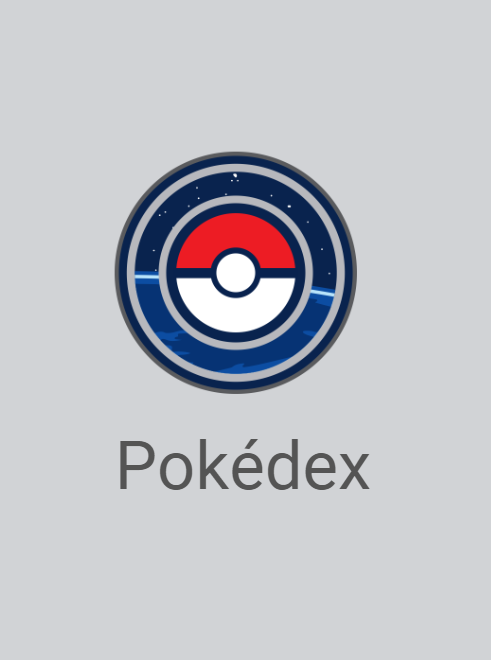
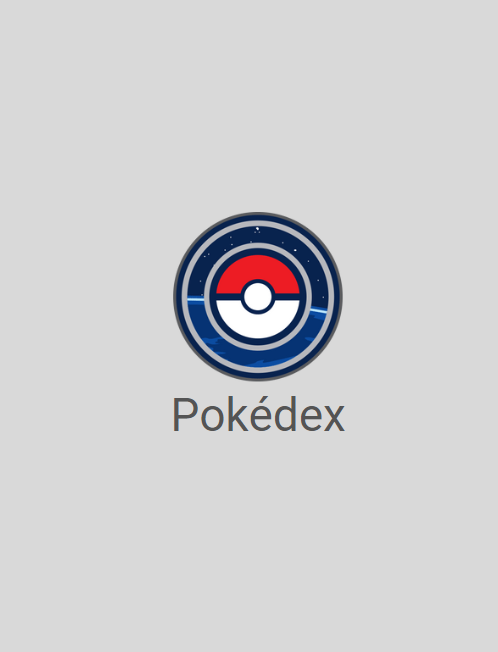
content hover adicionado

Changed region(s): [[0.2138, 0.2147, 0.7637, 0.7669]]

diff --git a/portfolio/src/Sections/Projects/Projects.js b/portfolio/src/Sections/Projects/Projects.js
@@ -4,16 +4,19 @@ import projectThree from "../../Assets/projectPokedex.png"
 import projectTwo from "../../Assets/projectFoodJP.png"
 import github from "../../Assets/github.png"
 import deploy from "../../Assets/deploy.png"
+import { useState } from "react"
 // Import Swiper 
 import { Swiper, SwiperSlide } from "swiper/react";
-
-// Import Swiper styles
 import "swiper/css";
 import "swiper/css/free-mode";
-import "swiper/css/pagination";
 import { FreeMode} from "swiper";
 
+
 const Projects = () => {
+    const [descriptionP1, setDescriptionP1] = useState("")
+    const [descriptionP2, setDescriptionP2] = useState("")
+    const [descriptionP3, setDescriptionP3] = useState("")
+    
     return (
         <div className="div-projects-section">
             <div className="title">
@@ -42,9 +45,16 @@ const Projects = () => {
                     pagination={{clickable: true,}}
                     modules={[FreeMode]}
                     className="mySwiper">
+                        
                     <SwiperSlide>
                         <div className="project">
-                            <img src={projectOne}/>
+                            <img 
+                                src={projectOne}
+                                onMouseOver={() => 
+                                    setDescriptionP1("O Rappi4, foi proposto pela Labenu com intenção de colocar em prática o conhecimento do módulo front-end. Tem o intuito de simular uma aplicação web para pedidos.")}
+                                onMouseOut={() => setDescriptionP1("")}
+                                />
+                            <p>{descriptionP1}</p>
                             <div className="container-btn">
                                 <button className="btn-git"><img src={github}/>GitHub</button>
                                 <button className="btn-deploy"><img src={deploy}/>Visualizar</button>
@@ -53,7 +63,12 @@ const Projects = () => {
                     </SwiperSlide>
                     <SwiperSlide>
                         <div className="project">
-                            <img src={projectTwo}/>
+                            <img src={projectTwo}
+                            onMouseOver={() => 
+                                setDescriptionP2("O FoodJP é um projeto do desafio nº27 da comunidade Codelandia, com o design desenvolvido pelo Iuri Silva. Utilizei deste desafio para consolidar meu conhecimento em HTML, CSS e JS.")}
+                            onMouseOut={() => setDescriptionP2("")}
+                            />
+                            <p>{descriptionP2}</p>
                             <div className="container-btn">
                                 <button className="btn-git"><img src={github}/>GitHub</button>
                                 <button className="btn-deploy"><img src={deploy}/>Visualizar</button>
@@ -62,7 +77,12 @@ const Projects = () => {
                     </SwiperSlide>
                     <SwiperSlide>
                         <div className="project">
-                            <img src={projectThree}/>
+                            <img src={projectThree}
+                             onMouseOver={() => 
+                                setDescriptionP3("O Pokédex foi feito com o intuito de simular um site com mais de 1000 pokémons extraidos da PokéAPI e com algumas funcionalidades, dentre elas adicionar, excluir e ver detalhes dos pokémons.")}
+                            onMouseOut={() => setDescriptionP3("")}
+                            />
+                            <p>{descriptionP3}</p>
                             <div className="container-btn">
                                 <button className="btn-git"><img src={github}/>GitHub</button>
                                 <button className="btn-deploy"><img src={deploy}/>Visualizar</button>

diff --git a/portfolio/src/Sections/Projects/projectsStyles.css b/portfolio/src/Sections/Projects/projectsStyles.css
@@ -28,10 +28,24 @@
     align-items: center;
 }
 
+.project p {
+    color: white;
+    position: absolute;
+    bottom: 100px;
+    width: 250px;
+    text-align: justify;
+    font-size: 0.9rem;
+}
+
 .project img{
     height: 500px;
-    width: 290px;
+    width: 288px;
     border-radius: 15px;
+    transition: 0.3s;
+}
+
+.project img:hover {
+    opacity: 0.5;
 }
 
 .container-btn {

diff --git a/portfolio/src/Sections/About/aboutStyles.css b/portfolio/src/Sections/About/aboutStyles.css
@@ -94,7 +94,7 @@
     }
 
     .div-btn {
-        justify-content: start;
+        justify-content: center;
     }
 
     .div-btn button {

diff --git a/portfolio/src/Sections/Header/headerStyles.css b/portfolio/src/Sections/Header/headerStyles.css
@@ -27,6 +27,7 @@ a:hover {
   border-bottom: 1px solid #151515;
   position: sticky;
   top: 0;
+  z-index: 10;
 }
 
 #menu {
